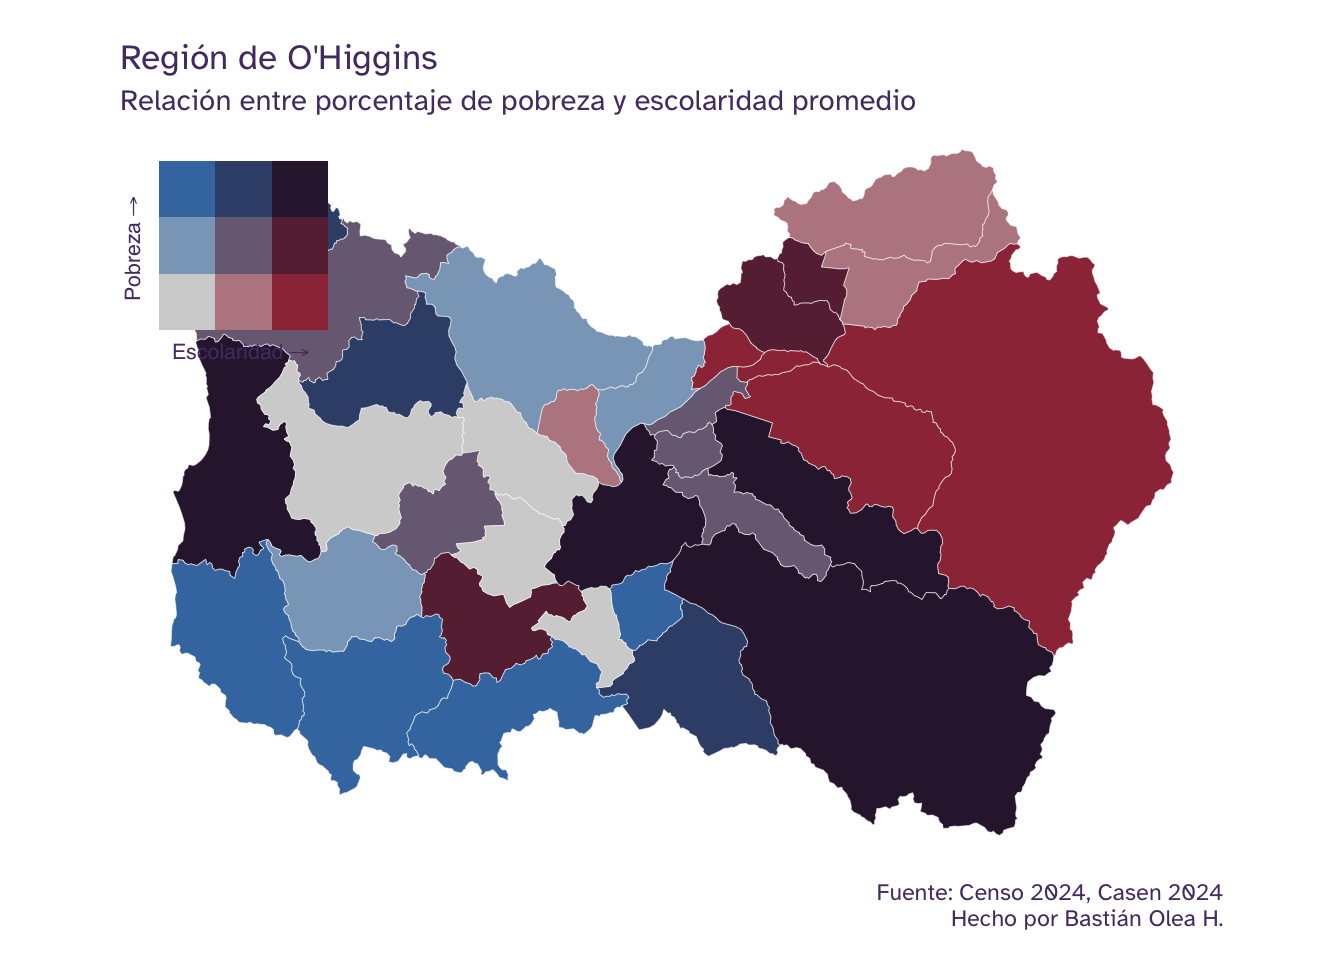
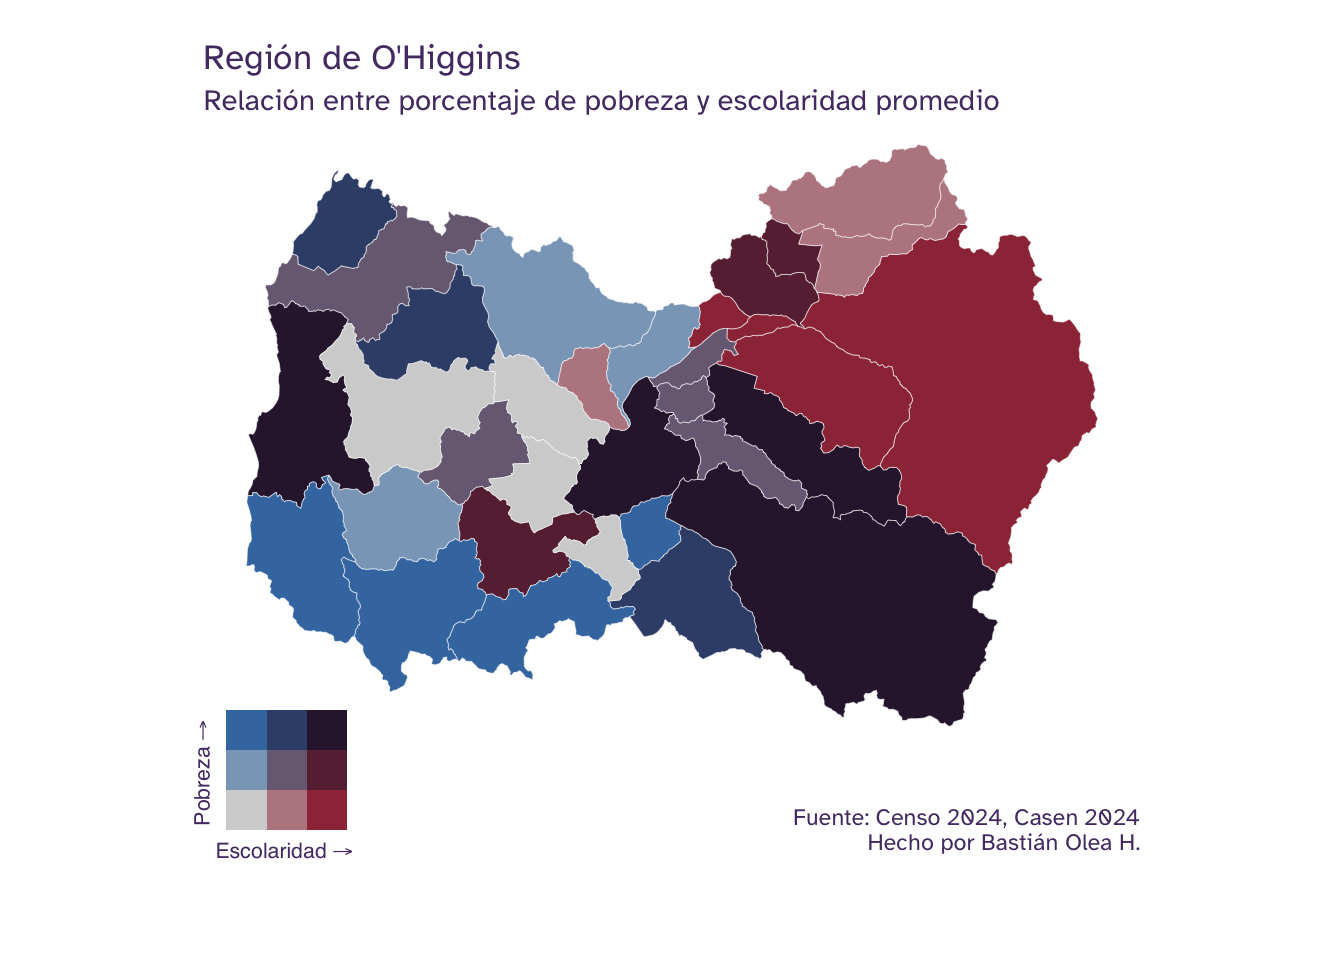
publicación de mapas bivariados

Changed region(s): [[0.0938, 0.1562, 0.9062, 0.9688], [0.0938, 0.0312, 0.75, 0.125], [0.6562, 0.4062, 0.6875, 0.4375]]

diff --git a/content/blog/mapas_bivariados/index.md b/content/blog/mapas_bivariados/index.md
@@ -386,9 +386,11 @@ mapa_bivariado
 
 <img src="index.markdown_strict_files/figure-markdown_strict/mapa-bivariado-rm-escolaridad-pobreza-1.png" width="576" />
 
-Obtenemos un mapa bivariado donde cada comuna se colorea según la combinación de sus dos variables. Siguiendo la leyenda, las comunas del color más oscuro (arriba a la derecha) son aquellas donde coinciden una **alta escolaridad promedio** y una **alta pobreza por ingresos**, mientras que los colores más tenues (abajo a la izquierda) corresponden a comunas con baja escolaridad y baja pobreza. La visualización nos permite distinguit comunas con **alta escolaridad y baja pobreza** (en celeste/calipso), y comunas con **baja escolaridad y alta pobreza** (en rosado/fucsia), que reflejan la relación inversa que solemos esperar entre educación y pobreza. Sin embargo, para afirmar que existe una asociación estadística entre ambas variables habría que aplicar las pruebas estadísticas apropiadas.
+Obtenemos un mapa bivariado donde cada comuna se colorea según la combinación de sus dos variables.
 
-{{< etiqueta "mapas" >}}
+{{< relacionada "blog/patchwork/" >}}
+
+Siguiendo la leyenda, las comunas del color más oscuro (arriba a la derecha) son aquellas donde coinciden una **alta escolaridad promedio** y una **alta pobreza por ingresos**, mientras que los colores más tenues (abajo a la izquierda) corresponden a comunas con baja escolaridad y baja pobreza. La visualización nos permite distinguit comunas con **alta escolaridad y baja pobreza** (en celeste/calipso), y comunas con **baja escolaridad y alta pobreza** (en rosado/fucsia), que reflejan la relación inversa que solemos esperar entre educación y pobreza. Sin embargo, para afirmar que existe una asociación estadística entre ambas variables habría que aplicar las pruebas estadísticas apropiadas.
 
 Lo bueno de haber **parametrizado** la región y las dimensiones al comienzo es que puedes reutilizar todo este código cambiando solo un par de valores: prueba cambiando la región (`region_mapa`), otra cantidad de dimensiones, o incluso otras variables para construir tus propios mapas bivariados![^2]
 
@@ -452,9 +454,11 @@ mapa_bivariado
 
 <img src="index.markdown_strict_files/figure-markdown_strict/mapa-bivariado-ohiggins-escolaridad-pobreza-1.png" width="672" />
 
-## Recursos para aprender más
+Dos mapas por el precio de uno! Pero en este segundo mapa pusimos la leyenda un poco distinto: hicimos espacio debajo del mapa en la capa `theme()` del gráfico, dado que la forma del mapa no dejaba muchos espacios para poner la leyenda.
 
-Este tutorial se inspira en varios recursos excelentes sobre mapas bivariados:
+{{< etiqueta "mapas" >}}
+
+## Recursos
 
 - [Bivariate maps with ggplot2 and sf](https://timogrossenbacher.ch/bivariate-maps-with-ggplot2-and-sf/), por Timo Grossenbacher.
 - [Make a bivariate choropleth map](https://www.joshuastevens.net/cartography/make-a-bivariate-choropleth-map/), por Joshua Stevens.
